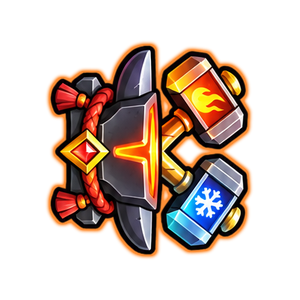
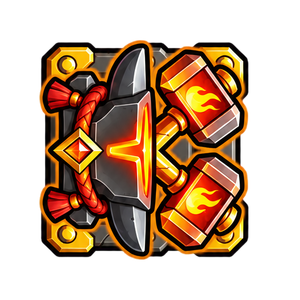
hình riêng cho biến thể: Merge King VÀNG (vương miện vàng), Twin Anvil 2 dạng nguyên khối (2 búa lửa / 2 búa băng); TAI-LIEU-GOC: 18 ụ lô 2 + biến thể
Claude-Session: https://claude.ai/code/session_01KQA7LFmF1Gaw7U6xJgJJfT

diff --git a/thap/js/skills4.js b/thap/js/skills4.js
@@ -280,7 +280,7 @@ SKILLS.loren = {
     return (d === 'dmg' ? 'DAMAGE ANVIL' : 'SPEED ANVIL') + ' · stacks ' + lo + '/14 · drag onto another turret: it gets +' + +(b.v * 100).toFixed(1) + '% ' + (d === 'dmg' ? 'damage' : 'fire rate') + ' for good (' + (d === 'dmg' ? '3' : '2') + '% per stack; one buff type per turret; lost if it merges) · drag onto an Anvil of the SAME type: stacks add up (max 14), two ' + lo + '-stack Anvils: ' + Math.min(14, lo * 2) + ' stacks, ' + this.tiLe(Math.min(14, lo * 2), n) + '% success — more stacks = more risk · fail: the dragged Anvil is lost, the target keeps the bigger stacks' + (n ? ' · +' + 4 * n + '% success when the total is 8+' : '');
   },
   gocDau: (T, t) => -Math.PI / 2,
-  dauAnh: (T) => (T.dang === 'toc' ? 'lorentoc_nong' : null), // dạng tốc: đầu riêng (render.js REN.dauEp) — 11/11: cùng hình đe mới lật gương + quầng xanh băng (tools/thap-cat-u-tudo.py loren_toc)
+  dauAnh: (T) => (T.dang === 'toc' ? 'lorentoc_nong' : null), // dạng tốc: đầu riêng (render.js REN.dauEp) — 11/11: loren_nong = dạng SÁT THƯƠNG (2 búa lửa), lorentoc_nong = dạng TỐC (2 búa băng), cả hai nguyên khối kèm tấm nền = bệ riêng (tools/thap-cat-bienthe.py)
   sinh(G, T) {
     if (!T.dang) { const B = G.ban[T.ban]; const hat = (typeof ONS !== 'undefined' && ONS.on ? ONS.seed : G.hat) || 1; B._anN = ((B && B._anN) | 0) + 1; if (B) B._anN = B._anN; const r = rngHat((hat * 6007 + ((B && B.i) | 0) * 911 + (T.o | 0) * 131 + ((B && B._anN) | 0) * 7919) | 0); T.dang = r() < 0.5 ? 'dmg' : 'toc'; }
     if (T.lo == null) T.lo = Math.min(this.MAX, T.sao | 0);

diff --git a/thap/js/skills2.js b/thap/js/skills2.js
@@ -775,8 +775,11 @@ SKILLS.vughep = { // Vua Ghép (Aurora King): kéo lên ụ CÙNG SAO → ụ đ
       return b;
     },
   },
-  veThem(ctx, T, S, al, R) { if (T.vang) { ctx.globalCompositeOperation = 'lighter'; ctx.globalAlpha = al * 0.4; R.anhGiua(ctx, R.cham1('#ffd23f'), 0, 0, S * 1.4); } }, // VFX P3: quầng vàng đứng yên
+  // 11/11: Merge King VÀNG có HÌNH RIÊNG — vương miện vàng 2 sao (tools/thap-cat-bienthe.py → vughepvang_nong, cùng khung + cỡ với vương miện thường; render.js REN.datDauEp)
+  dauAnh: (T) => (T.vang ? 'vughepvang_nong' : null),
+  veThem(ctx, T, S, al, R) { if (T.vang && !(R.img && R.img('vughepvang_nong'))) { ctx.globalCompositeOperation = 'lighter'; ctx.globalAlpha = al * 0.4; R.anhGiua(ctx, R.cham1('#ffd23f'), 0, 0, S * 1.4); } }, // dự phòng khi ảnh vương miện vàng chưa tải: quầng vàng đứng yên như trước
 };
+{ const _bdVg = batDau; batDau = function () { const r = _bdVg.apply(this, arguments); try { if (typeof REN !== 'undefined' && REN.img && G.ban.some(B => B.deck.includes('vughep'))) REN.img('vughepvang_nong'); } catch (e) { } return r; }; } // nạp sẵn ảnh vương miện vàng
 SKILLS.sinhdoi = { // Máy Sinh Đôi (Berit): khi GHÉP THƯỜNG gọi thêm 1 ụ ngẫu nhiên CÙNG SAO nguyên liệu (luôn có ô: ghép trả 1 ô)
   // · 2 Twin Maker ghép nhau / Twin + Mimic → đúng 1 ụ thêm (kỹ năng chạy 1 lần mỗi lần ghép).
   // · Ghép ĐẶC BIỆT (Merge King/Bộ Trộn… kéo vào Twin) KHÔNG kích hoạt: đó là kỹ năng của ụ kéo, không phải ghép thường (giữ như cũ).

diff --git a/thap/js/skills7.js b/thap/js/skills7.js
@@ -722,5 +722,5 @@ if (typeof SKILLS !== 'undefined' && !window.UCU) {
   const DUNG = ['nhanban', 'xaotron', 'thaukinh', 'docton', 'tuthan', 'nangsao', 'epxung', 'nhieusong', 'santhuong', 'sungluc', 'tia', 'set', 'railgun', 'saochep', 'loren', 'nguyenrua', 'thanhdia', 'lienket', 'dongbo', 'orbital', 'luoicheo', 'guongcong', 'overlord', 'lophanung',
     // lô 2 (11/11, tấm t15–t21): 18 ụ đặc biệt / hỗ trợ — đầu là con vật / vật có mặt
     'cuongno', 'vungdoc', 'khuech', 'doc', 'mana', 'phagiap', 'bua', 'bomhen', 'nhanmana', 'dichchuyen', 'chimang', 'loa', 'kepha', 'khoathoigian', 'pandora', 'marionette', 'xuonganh', 'ngaithoigian'];
-  for (const id of DUNG) if (SKILLS[id] && window.DAU_VE && DAU_VE[id] && DAU_VE[id].K === 1) SKILLS[id].gocDau = id === 'luoicheo' ? () => -Math.PI / 2 : (T, t) => -Math.PI / 2 + Math.sin(t * 1.1 + (T.pha || 0) * 6) * 0.06;
+  for (const id of DUNG) if (SKILLS[id] && window.DAU_VE && DAU_VE[id] && DAU_VE[id].K === 1) SKILLS[id].gocDau = id === 'luoicheo' || id === 'loren' /* Twin Anvil: hình kèm tấm nền = bệ → nằm yên */ ? () => -Math.PI / 2 : (T, t) => -Math.PI / 2 + Math.sin(t * 1.1 + (T.pha || 0) * 6) * 0.06;
 }

diff --git a/tools/thap-cat-bienthe.py b/tools/thap-cat-bienthe.py
@@ -1,0 +1,75 @@
+#!/usr/bin/env python3
+"""TURRET MERGE — hình BIẾN THỂ ĐẶC BIỆT của ụ (11/11; ảnh người dùng gen bằng ChatGPT, nền magenta).
+
+Nguồn: docs/demo-hop-tuong/thap-art/raw_bienthe2_vughep_loren.png (1536×1024, 1 hàng × 3):
+  (1) Merge King VÀNG  → thap/assets/vughepvang_nong.png — đầu ụ khi T.vang (skills2.js SKILLS.vughep.dauAnh). Cùng khung 294 px, cùng hệ số cỡ
+      và cùng chân vương miện với vughep_nong (vương miện thường) → không đổi bố cục; 2 ngôi sao trên đỉnh cao hơn nên thân thu ~90%.
+  (2) Twin Anvil dạng SÁT THƯƠNG (2 búa lửa, đe đỏ cam) → loren_nong.png
+  (3) Twin Anvil dạng TỐC (2 búa băng, đe xanh)          → lorentoc_nong.png (thay bản lật gương cũ)
+      Cả hai vẽ kèm MỘT TẤM NỀN xám góc vàng giống hệt nhau: KHÔNG tách đe khỏi nền — coi tấm nền là bệ riêng của Twin Anvil, vẽ nguyên khối,
+      cỡ tấm nền = TAM_NEN ô (nhỉnh hơn bệ loren_de 0,71 ô → che kín bệ cũ, viền bậc loren_vien vẫn lộ quanh). Đầu KHÔNG lắc (skills7.js) để tấm nền nằm yên trên ô.
+Mọi ảnh: đầu quay PHẢI như mọi đầu ụ (vẽ với gocDau −π/2 → đứng như ảnh gốc). Không nướng viền màu nhấn (hình đã có quầng riêng; viền bậc của bệ phải thấy rõ).
+Chạy: python3 tools/thap-cat-bienthe.py     (KT=thư_mục ảnh kiểm)
+"""
+import os, importlib.util
+import numpy as np
+from PIL import Image
+from scipy import ndimage as nd
+
+GOC = os.path.dirname(os.path.dirname(os.path.abspath(__file__)))
+RAW = os.path.join(GOC, 'docs/demo-hop-tuong/thap-art/raw_bienthe2_vughep_loren.png')
+OUT = os.environ.get('OUT', os.path.join(GOC, 'thap/assets'))
+spec = importlib.util.spec_from_file_location('umod', os.path.join(GOC, 'tools', 'thap-cat-umod.py'))
+U = importlib.util.module_from_spec(spec); spec.loader.exec_module(U)
+
+PX = 300          # Twin Anvil: điểm ảnh / cạnh ô (DAU_VE.loren K = 1, HEAD_K.lorentoc = 1)
+TAM_NEN = 0.735   # bề ngang cả khối (tấm nền) / cạnh ô
+DAY_NEN = 0.37    # đáy tấm nền dưới tâm ô (ô)
+
+
+def khung(c):
+    ys, xs = np.nonzero(c[..., 3] > 0.02); return xs.min(), ys.min(), xs.max() + 1, ys.max() + 1
+
+
+def tach3():
+    a = np.asarray(Image.open(RAW).convert('RGB'))
+    m, _ = U.tach(a); c = U.khoa(a.astype(np.float64) / 255, m)
+    lab, n = nd.label(c[..., 3] > 0, structure=np.ones((3, 3)))
+    cm = nd.center_of_mass(lab > 0, lab, range(1, n + 1)); W = a.shape[1]; ra = []
+    for k in range(3):
+        ks = [j for j, (y, x) in enumerate(cm, 1) if int(x // (W / 3)) == k]
+        q = c.copy(); q[~np.isin(lab, ks)] = 0; ra.append(q)
+    return ra
+
+
+def dat(c, s, N, cx, cy):
+    """c: RGBA float đứng thẳng; s = px đích / px gốc; (cx, cy) = điểm gốc (px gốc) đặt vào TÂM khung N → ảnh N×N quay PHẢI."""
+    im = U.anh(c); im = im.convert('RGBa').resize((max(1, round(im.width * s)), max(1, round(im.height * s))), Image.LANCZOS).convert('RGBA')
+    out = Image.new('RGBA', (N, N)); out.alpha_composite(im, (int(round(N / 2 - cx * s)), int(round(N / 2 - cy * s))))
+    return out.rotate(-90, Image.BICUBIC)
+
+
+def main():
+    vm, st, toc = tach3(); kt = os.environ.get('KT'); ra = {}
+    # (1) vương miện vàng: khớp vương miện thường (đứng thẳng: ngang = trục y ảnh quay phải, cao = trục x)
+    cu = Image.open(os.path.join(OUT, 'vughep_nong.png')); N = cu.size[0]; bx0, by0, bx1, by1 = cu.getbbox()
+    day_cu, dinh_max = N / 2 - bx0, N - 3 - N / 2          # chân vương miện dưới tâm · đỉnh tối đa trên tâm (px)
+    x0, y0, x1, y1 = khung(vm); w, h = x1 - x0, y1 - y0
+    day = day_cu + 0.07 * N                                 # chân hạ thêm 7% ô (đè lên nệm bệ) để thân to gần bằng vương miện thường
+    s = min((by1 - by0) / w, (day + dinh_max) / h)
+    ra['vughepvang_nong'] = dat(vm, s, N, (x0 + x1) / 2, y1 - day / s)
+    print('vughepvang: tỉ lệ %.3f · ngang %.0f px (thường %d) · cao %.0f px (thường %d)' % (s, w * s, by1 - by0, h * s, bx1 - bx0))
+    # (2)(3) Twin Anvil nguyên khối
+    for ten, c in (('loren_nong', st), ('lorentoc_nong', toc)):
+        x0, y0, x1, y1 = khung(c); s = TAM_NEN * PX / (x1 - x0)
+        ra[ten] = dat(c, s, PX, (x0 + x1) / 2, y1 - DAY_NEN * PX / s)
+        print(ten, 'tỉ lệ %.3f · khung' % s, ra[ten].getbbox())
+    for ten, im in ra.items():
+        im.save(os.path.join(OUT, ten + '.png'), optimize=True)
+        if kt:
+            os.makedirs(kt, exist_ok=True); n = im.size[0]; nen = Image.new('RGBA', (n * 2, n), (20, 24, 48, 255)); nen.paste((40, 230, 60, 255), (n, 0, n * 2, n))
+            up = im.rotate(90); nen.alpha_composite(up, (0, 0)); nen.alpha_composite(up, (n, 0)); nen.convert('RGB').save(os.path.join(kt, ten + '.png'))
+
+
+if __name__ == '__main__':
+    main()

diff --git a/tools/thap-cat-u-tudo.py b/tools/thap-cat-u-tudo.py
@@ -223,10 +223,10 @@ def main():
             bb = im.getbbox(); print(tam, i, 'dạng %d' % (n + 1) if tam in DANG else '', 'tỉ lệ', round(s, 3), 'khung', bb, 'ngang/bệ', round((bb[3] - bb[1]) / PX / BE, 2), 'cao/ô', round((bb[2] - bb[0]) / PX, 2))
             if tam in DANG: im.save(os.path.join(OUT, '%s_nong_s%d.png' % (i, n + 1)), optimize=True)
             if n == 0:
-                im.save(os.path.join(OUT, i + '_nong.png'), optimize=True)
+                if i != 'loren': im.save(os.path.join(OUT, i + '_nong.png'), optimize=True)   # Twin Anvil: loren_nong / lorentoc_nong nay do tools/thap-cat-bienthe.py ghi (2 dạng nguyên khối)
                 icon(i, im, DE); phu(T[(r, 3)], i)
                 if GLYPH: glyph(c, i)
-                if i == 'loren': dau(loren_toc(c), s, '#6ad0ff', False).save(os.path.join(OUT, 'lorentoc_nong.png'), optimize=True); HK['lorentoc'] = 1.0
+                if i == 'loren': HK['lorentoc'] = 1.0
                 DV[i] = {'K': 1.0, 'S': [1.0, 1.0, 1.0]} if tam in DANG else {'K': 1.0}
                 if i in XOAY and i in TIP: TIP[i] = round(min(1.0, mui(im) / HK[i]), 3)   # mũi luật = coDau/2 × tip, coDau = ô × HEAD_K
             if kt:

diff --git a/docs/demo-hop-tuong/BAN-GIAO-DIEU-PHOI.md b/docs/demo-hop-tuong/BAN-GIAO-DIEU-PHOI.md
@@ -80,11 +80,8 @@
 
 ## 9. Ảnh người dùng đã gửi, CHỜ GHÉP (lưu ở `docs/demo-hop-tuong/thap-art/cho-ghep/`)
 Ghép theo đúng quy trình commit `2ac6673d2` (ụ: `tools/thap-cat-u-tudo.py`) và `4b751c7c2` (phi công: `tools/thap-cat-phicong-moi.py`); ghép xong thì xoá dòng ở đây.
-- **SỬA THEO NGƯỜI DÙNG (11/11 12:30) — KHÔNG dùng hàng 1 của tấm t20 (đôi găng vàng) cho Merge King.** Merge King `vughep` GIỮ hình vương miện hiện tại (đó là nhận diện của nó). Cái người dùng thực sự yêu cầu: BIẾN THỂ ĐẶC BIỆT của ụ phải có hình riêng — Merge King VÀNG (`T.vang`, 10–22% lần xuất hiện, +2★) hiện chỉ có quầng vàng mờ (`veThem` trong skills2.js) trên cùng vương miện đỏ. Người dùng đang tạo hình "Golden Merge King" (sẽ lưu `cho-ghep/vughep_vang.png`); khi có thì dùng làm đầu ụ khi `T.vang` (kiểu `dauAnh` như Twin Anvil dạng tốc / Sói thức tỉnh). Cần RÀ thêm các ụ có trạng thái/biến thể đặc biệt mà hình không đổi (đã thấy có hình riêng: Sói thức tỉnh, Twin Anvil 2 dạng, Prism 4 màu, La Bàn theo hướng; CHƯA kiểm: Eclipse ngày/đêm `T.dem`, Copycat lúc đang chép, Wall Projector tường vàng, Orbital lúc thức, Hex/Jammer lúc vừa kích…). Wild Link (đổi biểu tượng ∞ → mèo hề) và Frost (bông tuyết → cú) đổi nhận diện khá nhiều: hỏi người dùng trước khi ghép 2 hàng đó.
+- **Biến thể đặc biệt — ĐÃ ghép 11/11** (`tools/thap-cat-bienthe.py`, nguồn `thap-art/raw_bienthe2_vughep_loren.png`): Merge King VÀNG có vương miện vàng riêng (`vughepvang_nong`, `SKILLS.vughep.dauAnh`), Twin Anvil 2 dạng nguyên khối kèm tấm nền (`loren_nong` = Sát thương, `lorentoc_nong` = Tốc). Merge King thường GIỮ vương miện (không dùng đôi găng t20 hàng 1). **CÒN LẠI:** (1) Eclipse `T.dem` chưa có hình riêng theo Ngày/Đêm — KHÔNG có ảnh mới; giữ 3 dạng theo sao, nếu làm thì đổi lõi/tông bằng code; tấm cũ `cho-ghep/bienthe_vughep_loren_nhatthuc.png` KHÔNG dùng cho vương miện / đe (vương miện có tia hồng sát màu nền, đe dính bệ bạc) — chỉ 2 hình Ngày/Đêm ở hàng 3 có thể làm biểu tượng chế độ; (2) rà biến thể chưa kiểm: ô HERO của Hero Foundry, Copycat lúc vừa chép, Orbital lúc thức, Hex/Jammer lúc vừa kích; (3) vương miện Merge King (cả thường lẫn vàng) đang QUAY CHẬM tại chỗ (render.js danh sách `TB`) nên có lúc nằm ngang / lộn ngược — hỏi người dùng có muốn giữ đứng thẳng không; (4) Wild Link (∞ → mèo hề) và Frost (bông tuyết → cú): hỏi người dùng trước khi ghép.
 - **ĐÃ CÓ `cho-ghep/quai_moi.png`** (1254×1254, 4 hàng × 4 khung ~313 px; thu về khung 192 px như `quai_bo.webp` 768×192): hàng 1 BỌ KHIÊN (xanh thép + khiên vàng) · hàng 2 NẤM HỒI MÁU (xanh bạc hà, chữ thập sáng; có bào tử rời quanh thân — tách kèm hoặc bỏ) · hàng 3 CÁ NÓC NỔ (đỏ cam, ngòi cháy; khung 1→3 phình to dần là CỐ Ý, đừng chuẩn hoá cỡ) · hàng 4 MA TRƠI: CHỈ DÙNG KHUNG 1 (đặc); khung 2–4 vẽ bán trong suốt trên nền magenta nên ngả hồng, không tách sạch được → hiệu ứng mờ/tàng hình làm bằng `globalAlpha` trong code từ khung 1 (có thể tự tạo 3 khung nhấp nhô bằng co giãn nhẹ).
-- **ĐÃ CÓ `cho-ghep/bienthe2_vughep_loren.png`** (1536×1024, 1 hàng × 3; THAY cho tấm bienthe cũ ở hàng 1–2): (1) Merge King VÀNG — sạch, không tia sáng → đầu ụ khi `T.vang`, thu cho bằng cỡ vương miện thường; (2) Twin Anvil dạng SÁT THƯƠNG (2 búa lửa, đe đỏ cam) và (3) dạng TỐC (2 búa băng, đe xanh) — cả hai vẫn bị vẽ kèm MỘT TẤM NỀN xám góc vàng GIỐNG HỆT NHAU phía sau; cách dùng: coi tấm nền đó là bệ riêng của Twin Anvil (vẽ nguyên khối, ẩn bệ vàng chung của ô cho ụ này) thay vì cố tách đe khỏi nền; dạng Sát thương thay `loren_nong`, dạng Tốc thay `lorentoc_nong` (bỏ bản lật gương). Eclipse: KHÔNG có ảnh mới — giữ 3 dạng theo sao, đổi lõi/tông theo `T.dem` bằng code; 2 hình Ngày/Đêm ở hàng 3 tấm bienthe cũ dùng làm biểu tượng chế độ nếu cần.
-- **CẢNH BÁO về `bienthe_vughep_loren_nhatthuc.png` (phiên cũ xem lại, 13:10): CHƯA dùng ngay.** (1) Vương miện vàng có tia sáng hồng nhạt phía sau sát màu nền → dễ để viền hồng khi tách; (2) Twin Anvil dạng Tốc bị vẽ kèm bệ bạc dính vào đe, và hình Twin Anvil thường (t06) vốn đã có 1 búa lửa + 1 búa băng nên "2 búa băng" chưa đủ khác → cần cặp mới: dạng Sát thương = 2 búa lửa, dạng Tốc = 2 búa băng, không bệ; (3) Eclipse có 3 dạng theo sao (`_nong_s1..s3`) nên 1 hình Ngày + 1 hình Đêm sẽ đè mất dạng theo sao → hoặc cần 3×2 hình, hoặc chỉ tô màu/đổi lõi theo chế độ bằng code. Người dùng đang tạo lại; chờ tấm `bienthe2_*.png`.
-- **ĐÃ CÓ `cho-ghep/bienthe_vughep_loren_nhatthuc.png`** (1536×1024, 3 hàng; cột trái = đầu ụ, cột phải = huy hiệu): hàng 1 Merge King VÀNG (vương miện vàng, kim cương trắng, 2 sao) → dùng làm đầu ụ khi `T.vang` (thay quầng vàng mờ `veThem`); hàng 2 Twin Anvil dạng TỐC (đe + 2 búa xanh băng, có nền bệ bạc vẽ kèm — tách bỏ nền bệ, chỉ lấy đe + búa) → thay `lorentoc_nong` (hiện là hình đe lật gương); hàng 3 Eclipse: trái = NGÀY (mặt trời lửa), phải = ĐÊM (trăng lưỡi liềm xanh) → đổi đầu ụ theo `T.dem` (hiện không có hình riêng theo chế độ). Kết quả rà biến thể đặc biệt (phiên cũ, 11/11): đã có hình riêng — Sói thức tỉnh, Prism 4 màu + hợp thể, La Bàn theo hướng, Blood Circuit f2–f4, Evolver (trứng theo sao/sắp nở/cháy), tường vàng Wall Projector, 23 ụ 3 dạng; CHƯA kiểm — ô HERO của Hero Foundry, Copycat lúc vừa chép.
 - CÒN CHỜ trong các tấm ụ t16 / t20 / t21 (đã chuyển sang `docs/demo-hop-tuong/thap-art/raw_anime_u_tudo_t16|t20|t21.png`; 18 ụ khác của t15–t21 ĐÃ ghép 11/11 bằng `tools/thap-cat-u-tudo.py`, hàng chưa ghép khai `None` trong `TAM`): t16 hàng 1 Frost `bang` (cú băng) · t21 hàng 2 Wild Link `tudo` (mèo hề cầm 2 vòng xích) — đổi nhận diện nhiều, HỎI người dùng trước; khi được duyệt: thay `None` bằng id rồi chạy `python3 tools/thap-cat-u-tudo.py bang tudo` + thêm id vào `DUNG` (skills7.js). t20 hàng 1 (đôi găng vàng) KHÔNG dùng cho Merge King.
 - Người dùng chê (11/11): (a) vuốt Prism Thief hỏng không báo lý do — `kiemMach` đã trả `loi: path|prism|colour` nhưng không hiện; (b) quái wave nào cũng một kiểu (`taoWave` trong data.js trộn cố định 6 loại) — **NGƯỜI DÙNG ĐÃ DUYỆT hướng "wave có chủ đề" (11/11 12:29)**: xoay vòng trong mỗi chặng 10 wave: 1 và 6 Hỗn hợp · 2 Bầy đàn (rất đông quái nhỏ máu ít) · 3 Không kích (toàn quái bay) · 4 Thiết giáp (ít con, máu rất trâu) · 5 Tinh anh (1 tinh anh + hộ vệ) · 7 Tốc hành (chạy nhanh, kháng chậm) · 8 Phân bào (slime tách + slime chúa, CHỈ ở wave này → bớt cảnh cả trăm slime) · 9 Hỗn loạn (2 chủ đề trộn) · 10 Trùm. Thêm 4 loại quái mới: quái KHIÊN (chặn đòn đầu / giáp trước), quái HỒI MÁU cho đồng đội gần, quái TỰ NỔ khi chết làm choáng ụ sát đường, quái TÀNG HÌNH từng đoạn. Thanh trên hiện tên chủ đề wave sắp tới. Làm CÙNG đợt cân bằng bằng trận bot thật (đổi gameplay → gửi bảng trước khi áp), tất định theo hạt giống, cập nhật TAI-LIEU-GOC. Hình 4 quái mới: người dùng đang tạo bằng ChatGPT (tấm 4 hàng × 4 khung đi bộ 192 px như `quai_bo.webp`), sẽ lưu vào `cho-ghep/quai_moi.png`; (c) ụ ra khi triệu hồi là 20% đều (đã kiểm), 09/11 đã bỏ bảo đảm ụ Tấn công.
 - Đề xuất chưa được người dùng trả lời: gợi ý cách chơi Prism Thief (đường mờ + ngón tay vuốt khi đủ 4 màu liền nhau; chấm màu còn thiếu trên thẻ) — người dùng nói "Prism Thief tôi chẳng biết chơi".
